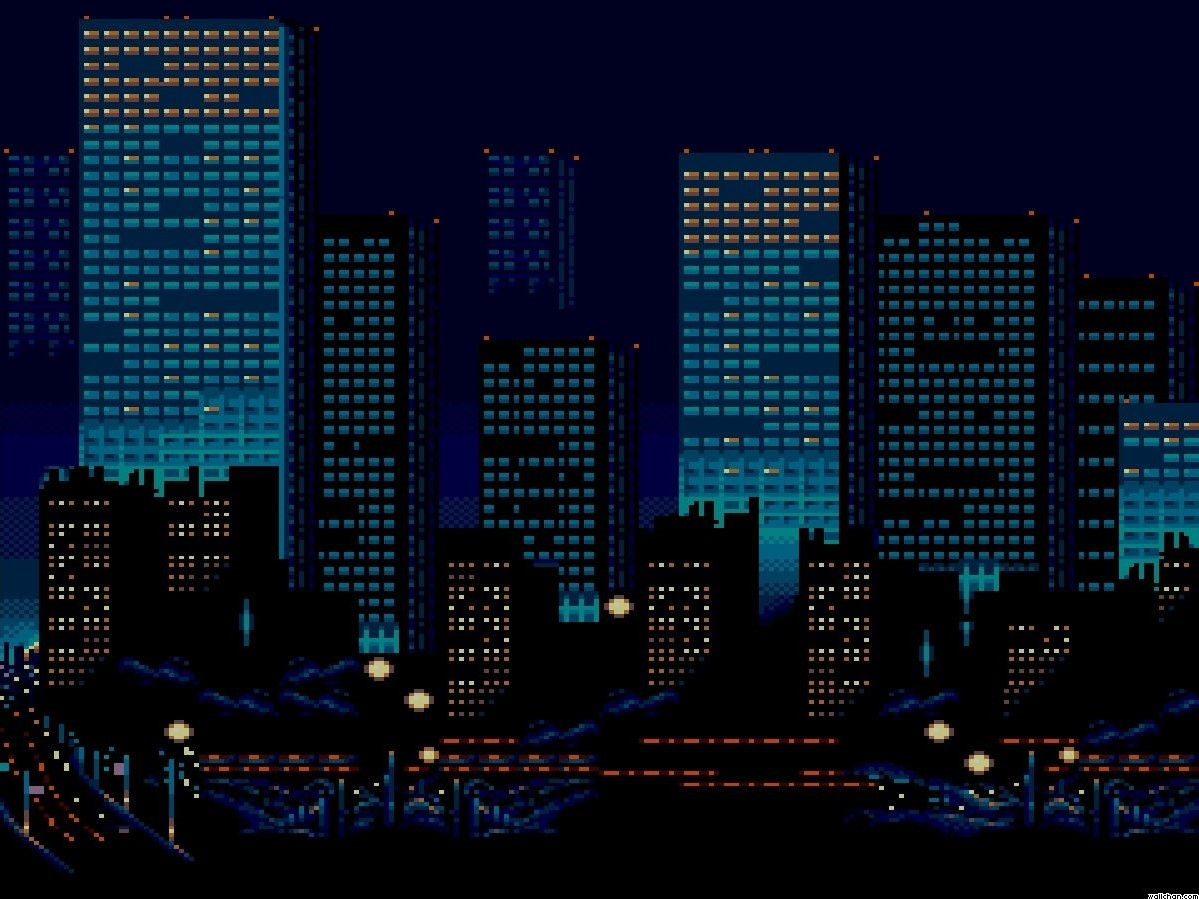
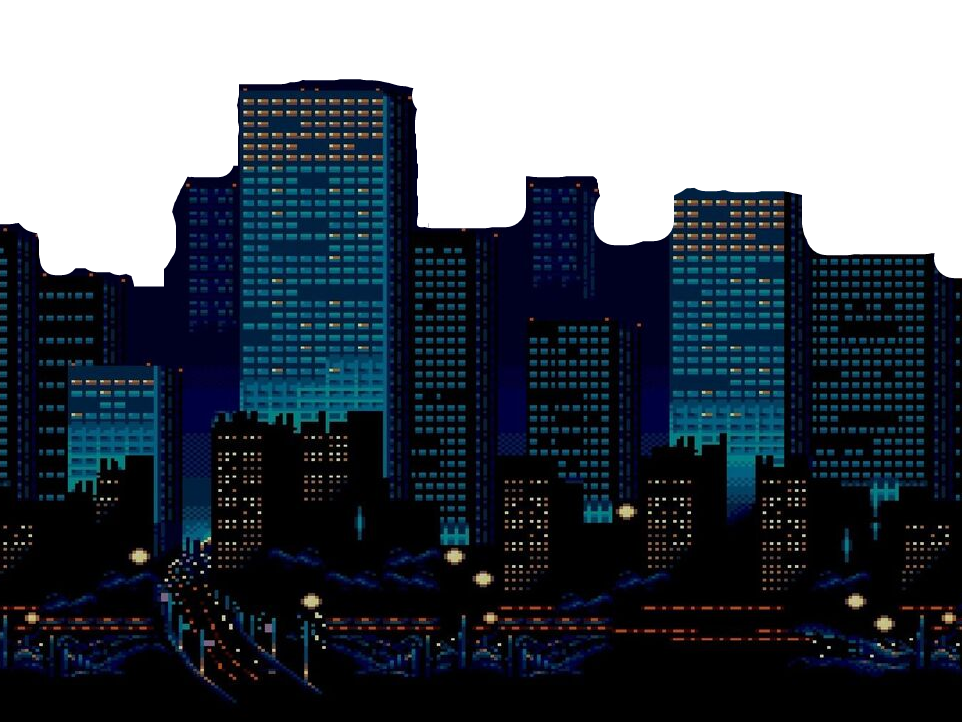
added transparent bg

diff --git a/game.py b/game.py
@@ -2,7 +2,7 @@ import os
 import pygame
 import random
 import settings as s
-from sprites import SpriteSheet, Platform, Player, Base, Cloud, Slime
+from sprites import SpriteSheet, Platform, Player, Base, Cloud, Slime, BackGround
 
 
 class CoronaBreakout:
@@ -50,9 +50,9 @@ class CoronaBreakout:
         self.base_img = pygame.image.load(os.path.join(self.img_dir, 'grassCenter.png')).convert()
 
         # load background image
-        bg_dir = os.path.join(self.img_dir, 'background')
-        bg_image = pygame.image.load(os.path.join(bg_dir, 'night_city.png')).convert()
-        self.bg_image = pygame.transform.scale(bg_image, (640, 480))
+        # bg_dir = os.path.join(self.img_dir, 'background')
+        # bg_image = pygame.image.load(os.path.join(bg_dir, 'night_city.png')).convert()
+        # self.bg_image = pygame.transform.scale(bg_image, (640, 480))
 
         # load cloud images
         self.cloud_images = []
@@ -74,6 +74,9 @@ class CoronaBreakout:
         self.powerups = pygame.sprite.Group()
         self.enemies = pygame.sprite.Group()
         self.clouds = pygame.sprite.Group()
+
+        # load bg image
+        self.bg_image = BackGround(self)
 
         # create new instance of player
         self.player = Player(self)
@@ -218,7 +221,7 @@ class CoronaBreakout:
                 self.player.pos.x -= max(self.player.vel.x, 3)
                 # updating previous clouds
                 for cloud in self.clouds:
-                    cloud.rect.x -= max(self.player.vel.x / 2, 3)
+                    cloud.rect.x -= max(self.player.vel.x / 4, 3)
                 # updating platforms
                 for plat in self.platforms:
                     plat.rect.x -= max(self.player.vel.x, 3)
@@ -254,10 +257,11 @@ class CoronaBreakout:
         """Draw updated objects to the screen.
         """
 
-        self.screen.blit(self.bg_image, (0, 0))
+        self.screen.fill(s.BLACK)
 
         # draw all sprites
         self.all_sprites.draw(self.screen)
+        self.enemies.draw(self.screen)
 
         # draw texts
         self.draw_text(f'Score: {self.score}', 22, s.WHITE, s.WIDTH / 2, 15)

diff --git a/sprites.py b/sprites.py
@@ -478,3 +478,29 @@ class Vaccine(pygame.sprite.Sprite):
 
         if not self.game.platforms.has(self.plat):
             self.kill()
+
+
+class BackGround(pygame.sprite.Sprite):
+    """A class for bg images.
+
+    Used only for layering functionality.
+    """
+
+    def __init__(self, game):
+        """Initializing a new background.
+
+        Args:
+            game (game_instance): Game instance.
+        """
+
+        self._layer = s.BG_IMAGE_LAYER
+        groups = game.all_sprites
+        super(BackGround, self).__init__(groups)
+
+        self.game = game
+
+        bg_dir = os.path.join(self.game.img_dir, 'background')
+        image = pygame.image.load(os.path.join(bg_dir, 'night_city.png')).convert_alpha()
+        image.set_colorkey(s.BLACK)
+        self.image = pygame.transform.scale(image, (640, 480))
+        self.rect = self.image.get_rect()

diff --git a/settings.py b/settings.py
@@ -29,11 +29,12 @@ PLATFORM_START_LIST = [
 ]
 
 # sprite layers
-PLATFORM_LAYER = 1
-POW_LAYER = 1
-PLAYER_LAYER = 2
 CLOUD_LAYER = 0
-ENEMY_LAYER = 2
+BG_IMAGE_LAYER = 1
+PLATFORM_LAYER = 2
+POW_LAYER = 2
+PLAYER_LAYER = 3
+ENEMY_LAYER = 3
 
 # spritesheets
 ENEMY_SPRITESHEET = os.path.join('enemy', 'enemies_spritesheet.png')
